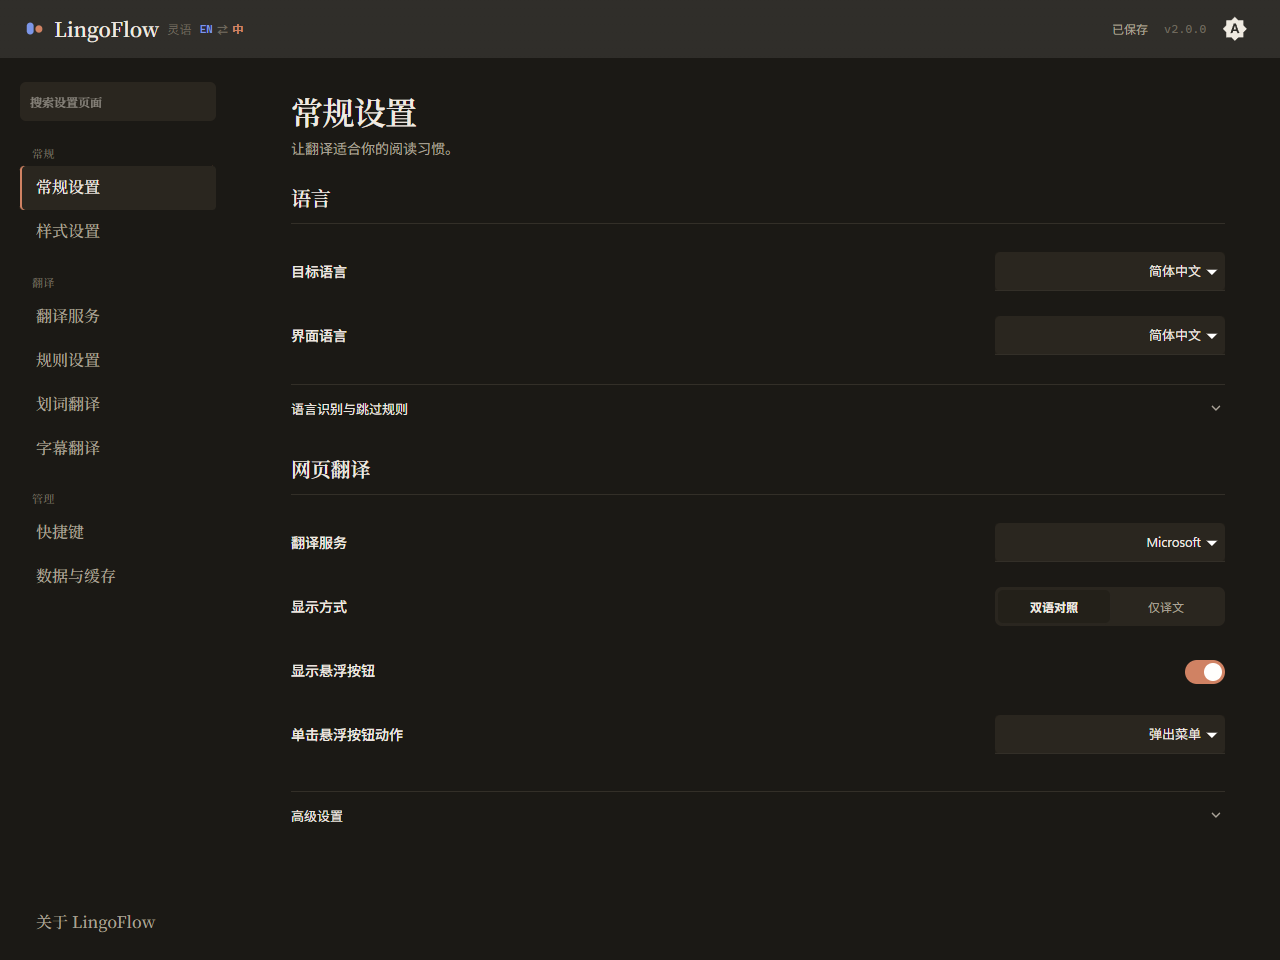
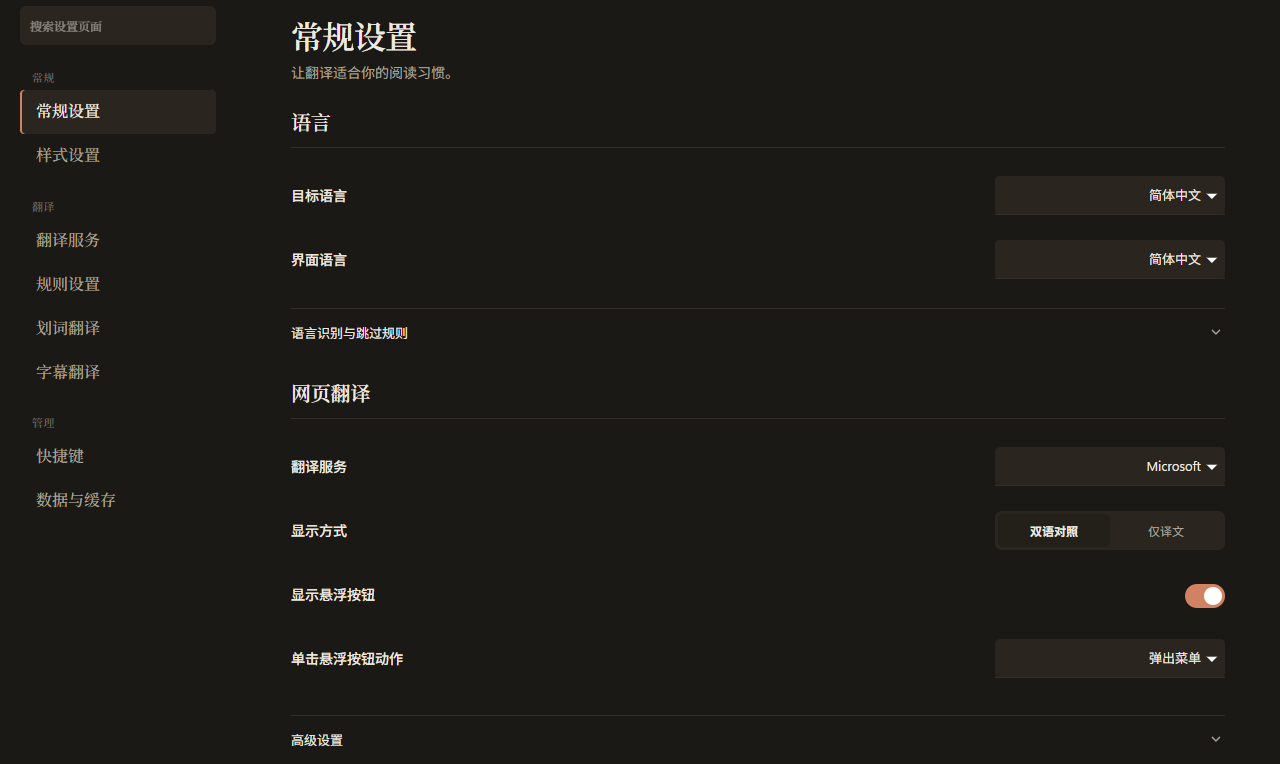
docs: refine bilingual README and compact interface previews

diff --git a/README.en.md b/README.en.md
@@ -1,83 +1,53 @@
-# LingoFlow
+# LingoFlow · 灵语
 
 [中文](README.md) · [English](README.en.md)
 
-<!-- release-standard:start -->
-**v2.0.0** · Node.js **22** · pnpm **11.18.0**
-<!-- release-standard:end -->
-
-[Download the latest release](https://github.com/Guivyn/lingoflow/releases/latest) · [CI](https://github.com/Guivyn/lingoflow/actions/workflows/ci.yml)
-
 <p align="center">
-  <img src="./assets/readme/hero.svg" width="100%" alt="LingoFlow: a bilingual reading extension for webpages, selected text, hover translation, and YouTube subtitles">
+  <img src="./assets/readme/hero-en.svg" width="100%" alt="LingoFlow: keep the original text and read the translation alongside it.">
 </p>
 
-LingoFlow is a lightweight, open-source Chrome extension for reading foreign-language content with the original text and translation side by side.
+**An open-source Chrome extension for bilingual reading.** Read webpages with the original text and translation together, translate selected text or hovered paragraphs, and follow YouTube with bilingual subtitles.
 
-## Version 2.0.0
+[**Download for Chrome →**](https://github.com/Guivyn/lingoflow/releases/latest) · [Installation](#install-and-start-reading) · [Report an issue](https://github.com/Guivyn/lingoflow/issues)
 
-- Refined popup and settings navigation, expandable advanced controls, reduced-motion support, and complete new interface copy in six supported languages.
-- Streaming requests prioritize visible content and reading order, with an early first batch, bounded concurrency, background cancellation, and error-aware retries.
-- Cache identities account for effective configuration and full context; expiry and entry limits are enforced on reads.
-- Settings, website rules, and floating-button preferences share save-failure feedback. Existing local settings and rules retain their storage namespace across the major-version upgrade.
-- YouTube caption capture, segmentation, and menus include compatible upstream improvements. See the [YouTube pipeline](docs/youtube-translation.md) and [upstream compatibility](docs/upstream-integration.md).
+## Make it fit your reading
 
-Performance figures in the [baseline report](docs/performance/README.md) describe a repeatable simulated service, not measured gains from a real provider. Local AI, audio transcription, PDF/EPUB/image translation, and plugin runtimes are not included.
-
-## Interface preview
-
-The settings center groups language, translation services, website rules, subtitles, and data management. Advanced controls expand on demand; light and dark themes share the same layout.
+Choose your languages and provider, then switch between bilingual and translation-only display. Advanced controls expand when you need them.
 
 <p align="center">
-  <img src="./assets/readme/screenshots/settings-light.png" width="100%" alt="LingoFlow light Options page showing language and whole-page translation settings">
+  <img src="./assets/readme/screenshots/settings-light.png" width="100%" alt="LingoFlow settings: language, provider, display mode, and floating-button controls. Interface shown in Chinese.">
 </p>
 
 <details>
   <summary>View the dark theme</summary>
 
   <p align="center">
-    <img src="./assets/readme/screenshots/settings-dark.png" width="100%" alt="LingoFlow dark Options page showing language and whole-page translation settings">
+    <img src="./assets/readme/screenshots/settings-dark.png" width="100%" alt="LingoFlow settings in dark mode. Interface shown in Chinese.">
   </p>
 </details>
 
-## Get started in 30 seconds
+## Start with a page in another language
 
-### Download a release (recommended)
+- **Read whole pages.** Visible content takes priority; streaming providers display translations progressively while keeping the original text available.
+- **Look up text as you go.** Translate selections or hovered paragraphs without leaving the page, with dictionary lookup and input suggestions.
+- **Follow videos.** YouTube bilingual subtitles support sentence splitting and custom styles; AI-assisted segmentation is optional. [How subtitles work](docs/youtube-translation.md)
+- **Set your defaults.** Website rules, dynamic-page observation, and optional automatic translation adapt the behavior to each site. [Automatic translation](docs/auto-translation.md)
 
-1. Download `chrome.zip` from the [latest release](https://github.com/Guivyn/lingoflow/releases/latest).
-2. Unzip it, open `chrome://extensions`, and enable Developer mode.
-3. Click **Load unpacked** and select the extracted folder.
-4. Open any foreign-language webpage, click the LingoFlow toolbar icon, or press `Alt+S` to toggle whole-page translation.
-5. Select text to use the translation bubble; open a YouTube video to use bilingual subtitles.
+## Install and start reading
 
-The current default configuration uses Microsoft's built-in translation endpoint, so you can try it first. Other services may require an API key, endpoint, or local service.
+1. Download <code>chrome.zip</code> from the [latest release](https://github.com/Guivyn/lingoflow/releases/latest) and unzip it.
+2. Open <code>chrome://extensions</code>, enable **Developer mode**, and choose **Load unpacked**.
+3. Select the extracted directory. Open a foreign-language page and click the extension icon, or press <code>Alt+S</code>.
 
-### Build from source
+The default configuration uses Microsoft's built-in endpoint. Other providers may require an API key or endpoint. To update an existing installation, replace the files in its original directory and reload that extension entry.
 
-The build environment is defined by [`.nvmrc`](.nvmrc) and [`.pnpm-version`](.pnpm-version). The version block above is generated by `pnpm sync-version`. See the [release standard](docs/release-standard.md).
+## Reliability and compatibility
 
-```bash
-git clone https://github.com/Guivyn/lingoflow.git
-cd lingoflow
-pnpm install
-pnpm build
-```
+Requests support background cancellation, bounded concurrency, and error-aware retries. Cache identities account for effective configuration and full context; expiry and entry limits are enforced. Settings, website rules, and floating-button preferences share save-failure feedback.
 
-The build output is written to `build/chrome/`; load that directory from `chrome://extensions`. To create a release archive, run `pnpm build+zip`; the output is `build/chrome.zip`.
+See the [cache policy](docs/cache-policy.md), [performance baseline](docs/performance/README.md), and [upstream compatibility](docs/upstream-integration.md). Performance measurements use a repeatable simulated service and do not establish real-provider speed gains. Local AI, audio transcription, PDF/EPUB/image translation, and plugin runtimes are not included.
 
-## Use cases
-
-- **Whole-page translation**: automatic scanning, rule matching, and SPA mutation observation for bilingual article reading.
-- **Auto-translate to target language**: translate pages in other languages into the current page rule's target language, with one shared switch across the popup, in-page panel, and settings. [Behavior guide (Chinese)](docs/auto-translation.md)
-- **Selection and hover translation**: translate a word, phrase, or paragraph inline, in a translation box, or in a hover bubble.
-- **YouTube subtitles**: bilingual display, sentence splitting, subtitle styles, and optional AI-assisted segmentation.
-- **Dictionary and suggestions**: English dictionary lookup, input suggestions, and comparison across translation engines.
-
-## How it works
-
-- Automatic scanning handles common pages; built-in rules and SPA observation cover more complex sites.
-- Whole-page, selection, and hover translation use separate presentation modes suited to each reading context.
-- YouTube subtitles use an independent processing pipeline; AI segmentation is an optional enhancement, not a prerequisite.
+Latest version: [Release notes](https://github.com/Guivyn/lingoflow/releases/latest). Existing local settings and rules retain their storage namespace across the major-version upgrade.
 
 ## Engines and configuration
 
@@ -104,7 +74,15 @@ The active global bindings are shown in `chrome://extensions/shortcuts`. Page-le
 
 ## Development
 
+<!-- release-standard:start -->
+**v2.0.0** · Node.js **22** · pnpm **11.18.0**
+<!-- release-standard:end -->
+
+The toolchain is defined by [`.nvmrc`](.nvmrc) and [`.pnpm-version`](.pnpm-version); the version block is generated from the release standard. See the [release standard](docs/release-standard.md).
+
 ```bash
+git clone https://github.com/Guivyn/lingoflow.git
+cd lingoflow
 pnpm install
 pnpm start       # local development, starting at the Options page
 pnpm test        # unit tests
@@ -112,6 +90,8 @@ pnpm test:ci     # one non-interactive test run
 pnpm lint        # ESLint
 pnpm build       # build the Chrome extension into build/chrome/
 ```
+
+Load `build/chrome/` in Chrome after building. Run `pnpm build+zip` to produce `build/chrome.zip`, its SHA-256 checksum, and a build report. [CI](https://github.com/Guivyn/lingoflow/actions/workflows/ci.yml) runs the checks and retains build artifacts.
 
 ## Contributing
 

diff --git a/README.md b/README.md
@@ -1,83 +1,53 @@
-# LingoFlow（灵语）
+# LingoFlow · 灵语
 
 [中文](README.md) · [English](README.en.md)
 
-<!-- release-standard:start -->
-**v2.0.0** · Node.js **22** · pnpm **11.18.0**
-<!-- release-standard:end -->
-
-[下载最新版](https://github.com/Guivyn/lingoflow/releases/latest) · [查看 CI](https://github.com/Guivyn/lingoflow/actions/workflows/ci.yml)
-
 <p align="center">
-  <img src="./assets/readme/hero.svg" width="100%" alt="LingoFlow 灵语：面向网页的双语阅读扩展，支持整页、划词、悬停和 YouTube 字幕">
+  <img src="./assets/readme/hero.svg" width="100%" alt="LingoFlow 灵语：保留原文，随时对照译文。网页、划词与 YouTube 字幕。">
 </p>
 
-LingoFlow 是一款轻量、开源的 Chrome 双语阅读扩展。它把网页、选中文本、悬停段落和 YouTube 字幕变成可以随时对照的双语阅读体验。
+**一款开源的 Chrome 双语阅读扩展。** 在网页中直接对照原文与译文，也支持选中文字、悬停段落和 YouTube 双语字幕。
 
-## 2.0.0 功能与改进
+[**下载 Chrome 安装包 →**](https://github.com/Guivyn/lingoflow/releases/latest) · [安装说明](#安装开始阅读) · [反馈问题](https://github.com/Guivyn/lingoflow/issues)
 
-- 更新弹窗与设置导航，高级选项按需展开，支持减少动态效果，补齐六种界面语言的新增文案。
-- 流式翻译优先处理可见内容与阅读顺序，首批提前发出；并发有上限，取消能传递到后台，重试按错误类型处理。
-- 缓存按有效配置和完整上下文区分，读取时检查有效期，并限制条目数量。
-- 通用设置、网站规则和悬浮按钮使用统一的保存失败反馈；大版本升级沿用现有存储命名空间，保留已有本地配置和规则。
-- 接入兼容的 YouTube 字幕捕获、分句与菜单改进，参见 [字幕实现](docs/youtube-translation.md) 与 [上游兼容范围](docs/upstream-integration.md)。
+## 按你的阅读习惯设置
 
-[性能基线报告](docs/performance/README.md) 使用可重复的模拟服务，不代表真实翻译接口的实测提速。本版本未引入本地 AI、音频转写、PDF/EPUB/图片翻译或服务插件运行时。
-
-## 界面预览
-
-设置中心按语言、翻译服务、网站规则、字幕和数据管理分组。高级选项按需展开，浅色与深色主题使用一致布局。
+选择语言与翻译服务，切换双语或仅译文。更多参数收进高级设置，需要时再展开。
 
 <p align="center">
-  <img src="./assets/readme/screenshots/settings-light.png" width="100%" alt="LingoFlow 浅色设置中心：语言与网页翻译常规设置">
+  <img src="./assets/readme/screenshots/settings-light.png" width="100%" alt="LingoFlow 设置中心实拍：语言、翻译服务、显示方式与悬浮按钮设置。">
 </p>
 
 <details>
   <summary>查看深色主题</summary>
 
   <p align="center">
-    <img src="./assets/readme/screenshots/settings-dark.png" width="100%" alt="LingoFlow 深色设置中心：语言与网页翻译常规设置">
+    <img src="./assets/readme/screenshots/settings-dark.png" width="100%" alt="LingoFlow 深色设置中心实拍。">
   </p>
 </details>
 
-## 30 秒上手
+## 从一页外文开始
 
-### 直接安装 Release 包（推荐）
+- **整页阅读**：可见内容优先，流式接口逐步显示译文，保留原文对照。
+- **随手查词**：选中或悬停文字，在当前页面查看翻译，也支持词典查询与输入联想。
+- **跟上视频**：YouTube 双语字幕，支持分句与样式设置；AI 分句是可选增强。[字幕实现](docs/youtube-translation.md)
+- **设好默认行为**：网站规则、动态页面监听与可选的自动翻译，适配不同站点。[自动翻译说明](docs/auto-translation.md)
 
-1. 前往 [最新版 Release](https://github.com/Guivyn/lingoflow/releases/latest) 下载 `chrome.zip`。
-2. 解压到任意本地目录，打开 `chrome://extensions` 并启用“开发者模式”。
-3. 点击“加载已解压的扩展程序”，选择解压后的目录。
-4. 打开任意外文网页，点击工具栏中的 LingoFlow 图标，或使用 `Alt+S` 切换整页翻译。
-5. 选中文字后使用页面上的翻译悬浮球；打开 YouTube 视频后即可使用双语字幕功能。
+## 安装，开始阅读
 
-当前默认配置使用 Microsoft 内置翻译端点，可先直接试用。选择其他服务时，请按服务要求填写 API Key、Endpoint 或本地服务地址。
+1. 下载 [最新版 Release](https://github.com/Guivyn/lingoflow/releases/latest) 中的 <code>chrome.zip</code> 并解压。
+2. 打开 <code>chrome://extensions</code>，启用“开发者模式”，点击“加载已解压的扩展程序”。
+3. 选择解压目录。打开外文网页，点击扩展图标，或按 <code>Alt+S</code> 开始翻译。
 
-### 从源码构建
+默认配置使用 Microsoft 内置端点，可先直接试用；其他服务可能需要 API Key 或 Endpoint。更新已有安装时，将文件覆盖到原扩展目录，再重新加载原扩展条目。
 
-构建环境以仓库的 [`.nvmrc`](.nvmrc) 和 [`.pnpm-version`](.pnpm-version) 为准，上方版本信息由 `pnpm sync-version` 自动生成。发布检查见 [交付规范](docs/release-standard.md)。
+## 稳定性与兼容范围
 
-```bash
-git clone https://github.com/Guivyn/lingoflow.git
-cd lingoflow
-pnpm install
-pnpm build
-```
+请求支持后台取消、并发上限和按错误类型重试。缓存区分有效配置与完整上下文，读取时执行有效期和条目数量限制。通用设置、网站规则和悬浮按钮使用统一的保存失败反馈。
 
-构建产物统一输出到 `build/chrome/`，在 `chrome://extensions` 中加载该目录即可。发布打包使用 `pnpm build+zip`，产物为 `build/chrome.zip`。
+详细说明见 [缓存策略](docs/cache-policy.md)、[性能基线](docs/performance/README.md) 与 [上游兼容范围](docs/upstream-integration.md)。性能基线使用可重复的模拟服务，不代表真实接口的实测提速。本版本未包含本地 AI、音频转写、PDF/EPUB/图片翻译及服务插件运行时。
 
-## 使用场景
-
-- **整页翻译**：自动扫描、规则匹配和 SPA 动态监听，保持文章主体的双语对照。
-- **目标语言自动翻译**：检测非目标语言页面后，自动译为当前网页规则的目标语言；弹窗、页面内面板和设置中心共享开关。[行为说明](docs/auto-translation.md)
-- **划词与悬停**：选中单词、短语或段落，使用行内译文、翻译框或悬浮气泡查看结果。
-- **YouTube 字幕**：双语显示、句子切分、字幕样式和可选的 AI 分句增强。
-- **词典与联想**：英文词典、输入联想和多翻译引擎对照。
-
-## 工作方式
-
-- 常见页面由自动扫描处理，复杂站点可以使用内置规则和 SPA 动态监听进行补充。
-- 整页、划词和悬停分别使用适合阅读场景的呈现方式，互不挤在同一个弹窗里。
-- 字幕翻译拥有独立的字幕处理管线；AI 分句是可选增强，不是使用 YouTube 字幕的前置条件。
+当前版本改进见 [Release 说明](https://github.com/Guivyn/lingoflow/releases/latest)。大版本升级沿用现有存储命名空间，保留已有本地配置和规则。
 
 ## 翻译引擎与配置
 
@@ -104,7 +74,15 @@ pnpm build
 
 ## 开发
 
+<!-- release-standard:start -->
+**v2.0.0** · Node.js **22** · pnpm **11.18.0**
+<!-- release-standard:end -->
+
+工具链以 [`.nvmrc`](.nvmrc) 和 [`.pnpm-version`](.pnpm-version) 为准，上方版本区块按发布规范自动生成。参见 [交付规范](docs/release-standard.md)。
+
 ```bash
+git clone https://github.com/Guivyn/lingoflow.git
+cd lingoflow
 pnpm install
 pnpm start       # 本地开发，入口为 Options 设置页
 pnpm test        # 单元测试
@@ -112,6 +90,8 @@ pnpm test:ci     # 单次、非交互测试
 pnpm lint        # ESLint
 pnpm build       # 构建 Chrome 扩展，产物输出到 build/chrome/
 ```
+
+构建后在 Chrome 中加载 `build/chrome/`。运行 `pnpm build+zip` 生成 `build/chrome.zip`、SHA-256 校验文件与构建报告。[CI](https://github.com/Guivyn/lingoflow/actions/workflows/ci.yml) 执行检查并保留构建产物。
 
 ## 反馈与贡献
 
